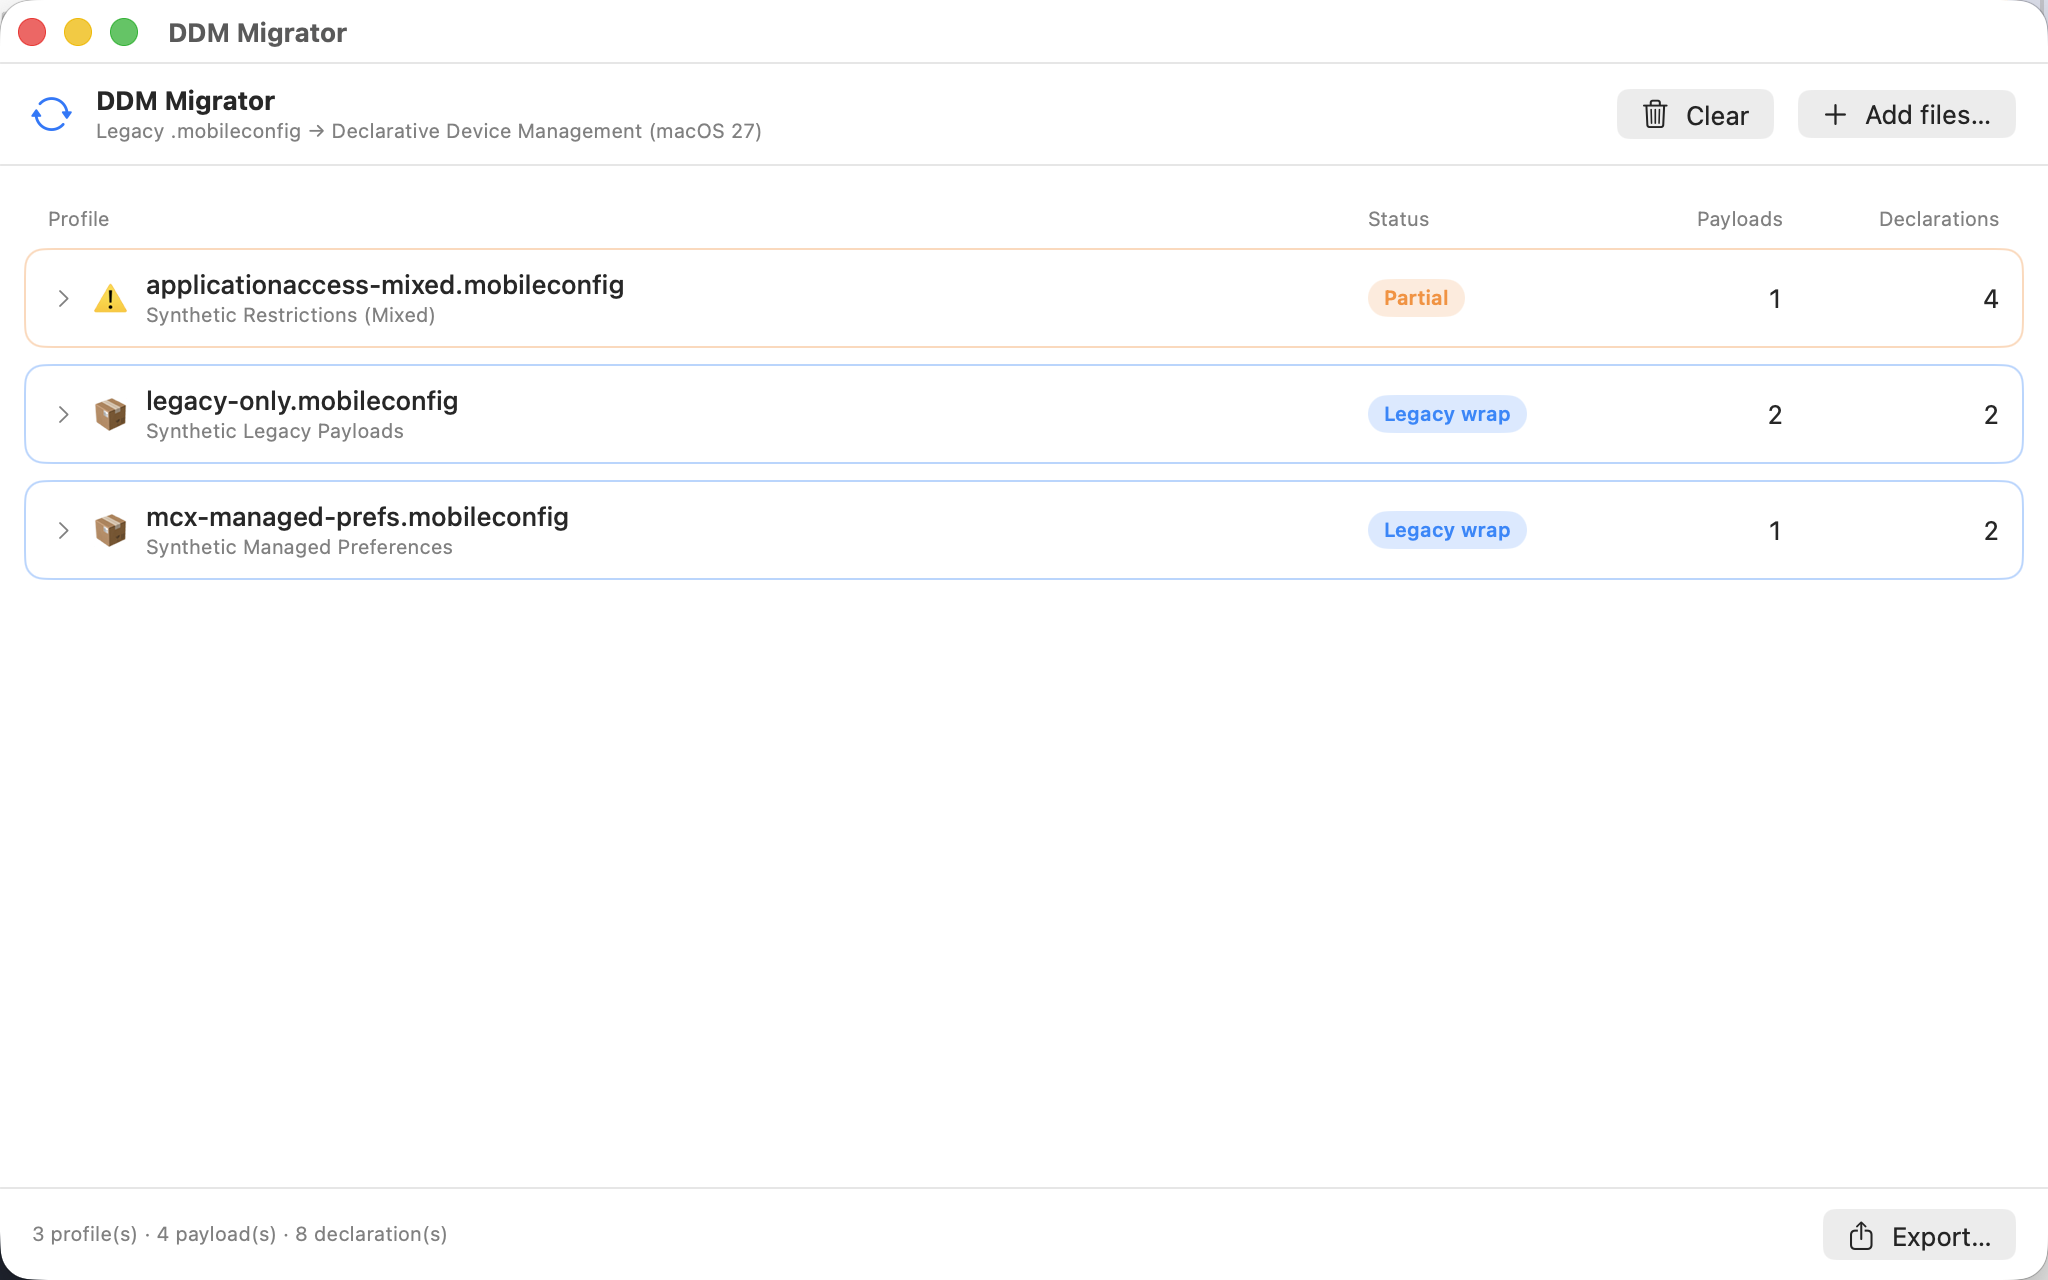
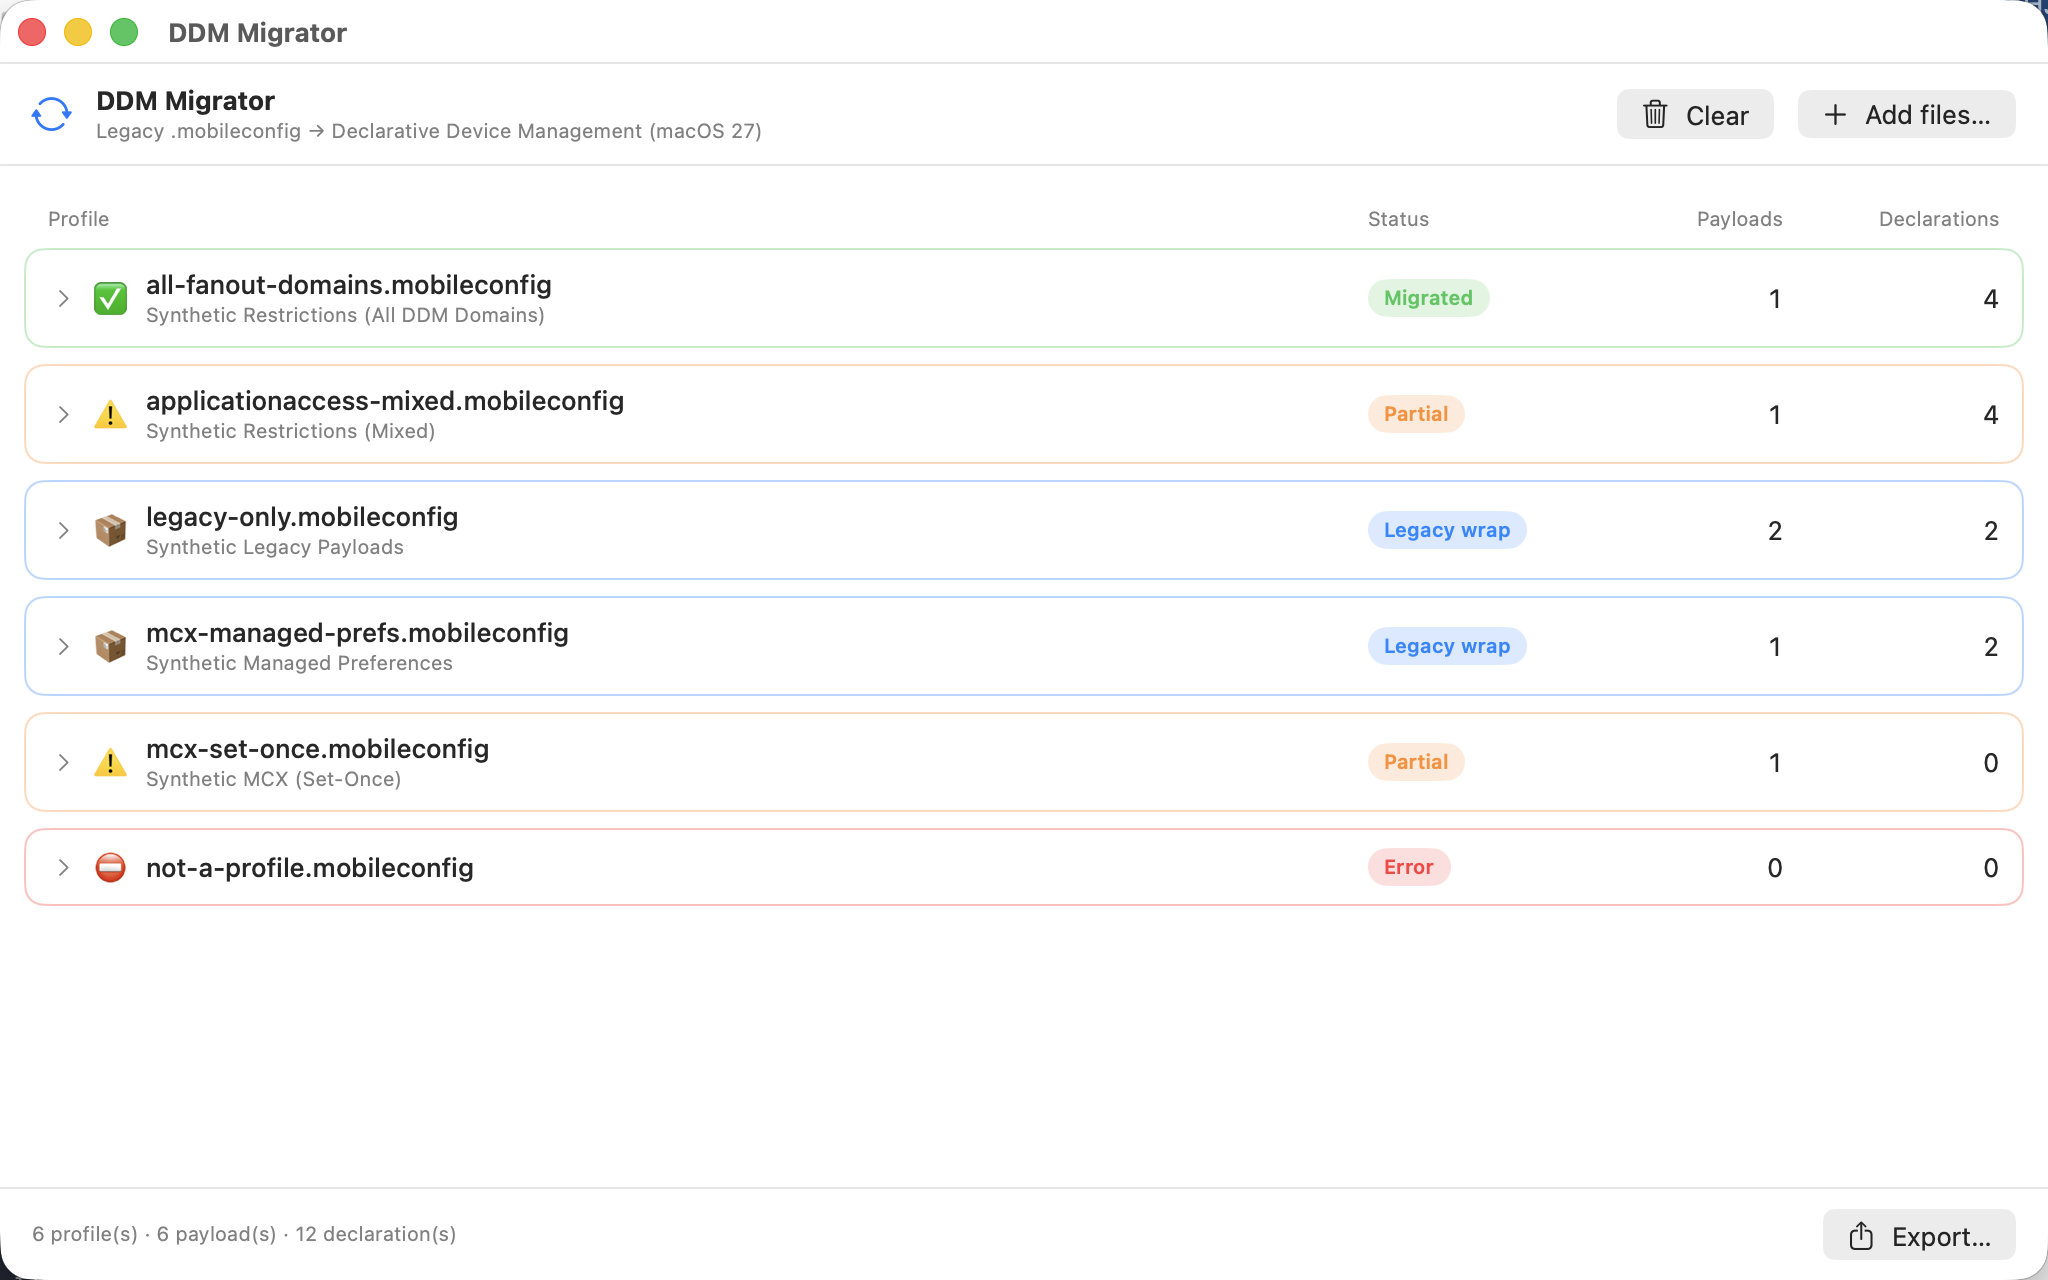
feat: vendor-agnostic deployment + full screenshot/status coverage (#3)
- DeploymentGuide generates DEPLOYMENT.md on export: per-vendor steps for
  FleetDM, Jamf Pro, Kandji/Iru, Addigy, Mosyle, Intune, honest about which
  accept custom DDM JSON today (Fleet + Jamf) vs. policy-only / unsupported.
- OutputWriter also emits a .payload.json companion per declaration (the
  Payload object only) for paste-based MDMs like Jamf Blueprints.
- New fixtures + tests covering all four DDM fan-out domains, MCX Set-Once
  (flagged), and a non-profile (error) — every status type now exercised.
- Demo rows-only expand mode; refreshed README screenshots (all statuses +
  four-domain fan-out) and vendor-agnostic deployment section.

diff --git a/Sources/DDMCore/DeploymentGuide.swift b/Sources/DDMCore/DeploymentGuide.swift
@@ -1,0 +1,69 @@
+import Foundation
+
+/// Generates a vendor-agnostic deployment guide (`DEPLOYMENT.md`) on export.
+///
+/// DDM Migrator's output is standard Apple declaration JSON — Type / Identifier
+/// / Payload — so it isn't tied to any one MDM. But every MDM ingests custom
+/// declarations differently (and some don't yet), so the guide spells out the
+/// workflow per vendor and is honest about current limitations.
+///
+/// Two ingestion shapes matter:
+///   • whole-file  — the vendor takes the full `.ddm.json` (e.g. Fleet).
+///   • paste       — the vendor wants the declaration Type plus the *Payload
+///                   object only*, and generates its own Identifier/ServerToken
+///                   (e.g. Jamf Pro Blueprints → Custom Declarations).
+public enum DeploymentGuide {
+
+    public static func markdown(report: MigrationReport) -> String {
+        let types = Set(report.allPayloads.flatMap { $0.producedDeclarations.map { $0.type } })
+            .sorted()
+
+        var md = "# Deploying these declarations\n\n"
+        md += "_Generated \(report.generatedAtISO8601)_\n\n"
+        md += "DDM Migrator emits **standard Apple declaration JSON** (`Type` / `Identifier` / "
+        md += "`Payload`) in the `*.ddm.json` files. That format is vendor-neutral — how you get it "
+        md += "onto devices depends on your MDM. This guide covers the common ones.\n\n"
+
+        if !types.isEmpty {
+            md += "**Declaration types produced in this export:**\n\n"
+            for t in types { md += "- `\(t)`\n" }
+            md += "\n"
+        }
+
+        md += "## Two shapes you'll need\n\n"
+        md += "- **Whole-file** — some MDMs take the entire `.ddm.json` as-is.\n"
+        md += "- **Paste (Type + Payload)** — some MDMs ask for the declaration *Type* and the "
+        md += "**contents of the `Payload` object only**, and generate the `Identifier`/`ServerToken` "
+        md += "themselves. In that case, open the `.ddm.json` and copy the value of the top-level "
+        md += "`Payload` key (not the whole file).\n\n"
+
+        md += "## Vendor support\n\n"
+        md += "| MDM | Import custom DDM JSON? | How |\n"
+        md += "|---|---|---|\n"
+        md += "| **FleetDM** | ✅ Yes | Whole-file. Upload the `.ddm.json` under **Controls → OS settings**, or commit it to your Fleet **GitOps** repo (`apple_settings.configuration_profiles` accepts `.json` declarations). |\n"
+        md += "| **Jamf Pro** | ✅ Yes (Blueprints) | Paste. **Blueprints → Custom Declarations → Add item**: set **Kind** = Configuration, **Channel** = System (or User), **Type** = the declaration's `Type`, **Payload** = the contents of its `Payload` object (use the `.payload.json` companion file). Jamf generates the Identifier/ServerToken. (API deploy is \"coming soon\" per Jamf.) |\n"
+        md += "| **Kandji (now Iru)** | ⚠️ Not directly | Kandji — rebranded **Iru** in late 2025 — delivers DDM through its own **Library items / policies**; no documented import for arbitrary custom declaration JSON. Use these files as the source of truth and configure the matching settings in Kandji/Iru. |\n"
+        md += "| **Addigy** | ⚠️ Not directly | Addigy delivers DDM through its **policies** (today focused on OS updates); there's no documented import for arbitrary custom declaration JSON yet. Use these files as the source of truth and map the settings into Addigy policies. |\n"
+        md += "| **Mosyle** | ⚠️ Not directly | Like Addigy — DDM is surfaced through Mosyle's policy UI; no documented custom-JSON import. Use these files as reference when configuring policies. |\n"
+        md += "| **Intune** | ❌ Not yet | Intune only exposes specific Microsoft-surfaced declarations (**Settings Catalog → DDM**, mainly software updates). Arbitrary custom DDM JSON cannot be imported today. |\n\n"
+        md += "_For the ⚠️/❌ vendors the declarations are still useful: they're the exact, audited "
+        md += "settings to reproduce in that MDM's UI, and they're ready to import the moment the "
+        md += "vendor adds custom-declaration support._\n\n"
+
+        md += "## Notes\n\n"
+        md += "- **Channel:** these configurations are typically delivered on the **System (device)** "
+        md += "channel; verify per declaration for your environment.\n"
+        md += "- **Identifiers:** the `Identifier` in each file is deterministic (derived from the "
+        md += "source profile) so re-runs diff cleanly. Paste-based MDMs ignore it and assign their own.\n"
+        md += "- **Legacy wraps:** `com.apple.configuration.legacy` references the original profile via "
+        md += "a `ProfileURL` placeholder (`\(LegacyWrap.profileURLPlaceholder)`). Host the original "
+        md += "`.mobileconfig` and replace the placeholder, or simply keep delivering the original "
+        md += "profile alongside your declarations.\n"
+        md += "- **Flagged payloads:** anything marked ⚠️ in `migration-report.md` needs manual review "
+        md += "before deployment — it wasn't auto-converted.\n\n"
+
+        md += "> Scope: DDM Migrator transforms files. It does not push to any MDM or verify that "
+        md += "declarations land on devices — you bring the output into your MDM's own workflow above.\n"
+        return md
+    }
+}

diff --git a/Tests/DDMCoreTests/DDMCoreTests.swift b/Tests/DDMCoreTests/DDMCoreTests.swift
@@ -271,4 +271,38 @@ final class DDMCoreTests: XCTestCase {
         let result = migrator.migrate(data: data, fileName: "applicationaccess-mixed.mobileconfig")
         XCTAssertNil(result.error)
     }
+
+    func testFixtureAllFanOutDomainsProducesFourDomains() throws {
+        guard let data = loadFixture(named: "all-fanout-domains.mobileconfig") else {
+            throw XCTSkip("fixture missing")
+        }
+        let result = migrator.migrate(data: data, fileName: "all-fanout-domains.mobileconfig")
+        let domains = Set(result.payloads.flatMap { $0.targetDomains })
+        XCTAssertEqual(domains, [
+            "com.apple.configuration.intelligence.settings",
+            "com.apple.configuration.external-intelligence.settings",
+            "com.apple.configuration.siri.settings",
+            "com.apple.configuration.keyboard.settings",
+        ])
+        XCTAssertEqual(result.declarationCount, 4)
+        XCTAssertEqual(result.status, .migrated) // no residual legacy
+    }
+
+    func testFixtureMCXSetOnceIsFlagged() throws {
+        guard let data = loadFixture(named: "mcx-set-once.mobileconfig") else {
+            throw XCTSkip("fixture missing")
+        }
+        let result = migrator.migrate(data: data, fileName: "mcx-set-once.mobileconfig")
+        XCTAssertEqual(result.payloads.first?.classification, .flagged)
+        XCTAssertEqual(result.status, .partial)
+    }
+
+    func testFixtureNotAProfileIsError() throws {
+        guard let data = loadFixture(named: "not-a-profile.mobileconfig") else {
+            throw XCTSkip("fixture missing")
+        }
+        let result = migrator.migrate(data: data, fileName: "not-a-profile.mobileconfig")
+        XCTAssertEqual(result.status, .error)
+        XCTAssertNotNil(result.error)
+    }
 }

diff --git a/Sources/DDMCore/OutputWriter.swift b/Sources/DDMCore/OutputWriter.swift
@@ -21,6 +21,7 @@ public enum OutputWriter {
         public let filesWritten: [URL]
         public let reportMarkdownURL: URL
         public let reportJSONURL: URL
+        public let deploymentGuideURL: URL
     }
 
     public enum WriteError: Error, LocalizedError {
@@ -35,7 +36,8 @@ public enum OutputWriter {
     @discardableResult
     public static func write(report: MigrationReport,
                              to outputDirectory: URL,
-                             writePreservedPlists: Bool = true) throws -> WriteSummary {
+                             writePreservedPlists: Bool = true,
+                             writePayloadOnlyFiles: Bool = true) throws -> WriteSummary {
         let fm = FileManager.default
         try ensureDirectory(outputDirectory, fm: fm)
 
@@ -52,6 +54,19 @@ public enum OutputWriter {
                     let fileURL = uniqueURL(in: profileDir, fileName: decl.suggestedFileName(), fm: fm)
                     try decl.jsonData().write(to: fileURL, options: .atomic)
                     written.append(fileURL)
+
+                    // Payload-only companion for paste-based MDMs (e.g. Jamf Pro
+                    // Blueprints, which wants the Payload object, not the envelope).
+                    if writePayloadOnlyFiles {
+                        let payloadURL = fileURL
+                            .deletingPathExtension()        // drop .json
+                            .deletingPathExtension()        // drop .ddm
+                            .appendingPathExtension("payload.json")
+                        if let data = try? decl.payload.prettyPrintedData() {
+                            try? data.write(to: payloadURL, options: .atomic)
+                            written.append(payloadURL)
+                        }
+                    }
 
                     // Companion file preserving the original payload verbatim.
                     if writePreservedPlists, let preserved = p.preservedSource {
@@ -77,10 +92,16 @@ public enum OutputWriter {
         try report.jsonData().write(to: jsonURL, options: .atomic)
         written.append(jsonURL)
 
+        // Vendor-agnostic deployment guide.
+        let deployURL = outputDirectory.appendingPathComponent("DEPLOYMENT.md")
+        try Data(DeploymentGuide.markdown(report: report).utf8).write(to: deployURL, options: .atomic)
+        written.append(deployURL)
+
         return WriteSummary(outputDirectory: outputDirectory,
                             filesWritten: written,
                             reportMarkdownURL: mdURL,
-                            reportJSONURL: jsonURL)
+                            reportJSONURL: jsonURL,
+                            deploymentGuideURL: deployURL)
     }
 
     // MARK: helpers

diff --git a/Sources/DDMMigratorApp/ResultsList.swift b/Sources/DDMMigratorApp/ResultsList.swift
@@ -27,12 +27,15 @@ struct ResultsList: View {
     }
 }
 
-/// Demo flag: when DDM_DEMO_EXPAND=1, rows and JSON start expanded (screenshots).
-private let demoExpand = ProcessInfo.processInfo.environment["DDM_DEMO_EXPAND"] == "1"
+/// Demo flags (screenshots): DDM_DEMO_EXPAND=1 expands rows AND shows JSON;
+/// DDM_DEMO_EXPAND=rows expands rows but leaves JSON collapsed.
+private let demoExpandValue = ProcessInfo.processInfo.environment["DDM_DEMO_EXPAND"] ?? ""
+private let demoExpandRows = demoExpandValue == "1" || demoExpandValue == "rows"
+private let demoShowJSON = demoExpandValue == "1"
 
 private struct ProfileRow: View {
     let profile: ProfileResult
-    @State private var expanded = demoExpand
+    @State private var expanded = demoExpandRows
 
     var body: some View {
         VStack(spacing: 0) {
@@ -98,7 +101,7 @@ private struct StatusBadge: View {
 
 private struct PayloadDetail: View {
     let payload: PayloadResult
-    @State private var showJSON = demoExpand
+    @State private var showJSON = demoShowJSON
 
     var body: some View {
         VStack(alignment: .leading, spacing: 6) {

diff --git a/Tests/DDMCoreTests/ExportIntegrationTests.swift b/Tests/DDMCoreTests/ExportIntegrationTests.swift
@@ -37,6 +37,16 @@ final class ExportIntegrationTests: XCTestCase {
         XCTAssertTrue(FileManager.default.fileExists(atPath: summary.reportJSONURL.path))
         XCTAssertGreaterThan(summary.filesWritten.count, 5)
 
+        // Vendor-agnostic deployment guide is written and covers the vendors.
+        XCTAssertTrue(FileManager.default.fileExists(atPath: summary.deploymentGuideURL.path))
+        let guide = (try? String(contentsOf: summary.deploymentGuideURL, encoding: .utf8)) ?? ""
+        for vendor in ["FleetDM", "Jamf Pro", "Kandji", "Addigy", "Mosyle", "Intune"] {
+            XCTAssertTrue(guide.contains(vendor), "DEPLOYMENT.md missing \(vendor)")
+        }
+
+        // Payload-only companions exist for paste-based MDMs (e.g. Jamf).
+        XCTAssertTrue(summary.filesWritten.contains { $0.lastPathComponent.hasSuffix(".payload.json") })
+
         if ProcessInfo.processInfo.environment["DDM_EXPORT_DIR"] == nil {
             try? FileManager.default.removeItem(at: outDir)
         }

diff --git a/README.md b/README.md
@@ -22,6 +22,10 @@ by payload, exactly what it did and why.
 
 ![Empty state](docs/screenshot-empty.png)
 
+**One `applicationaccess` payload fanning out to all four DDM domains**
+
+![Fan-out to four DDM domains](docs/screenshot-all-domains.png)
+
 **Expanded detail — per-payload disposition with JSON preview**
 
 ![Expanded payload detail with JSON preview](docs/screenshot-expanded.png)
@@ -54,6 +58,10 @@ Drag in one or many `.mobileconfig` files (or a folder) and DDM Migrator:
 - **Writes a migration report** (`migration-report.md` + `.json`) classifying every
   payload as migrated / fanned-out / legacy-wrapped, with reasons and flagged edge
   cases. This is the part that gives you confidence.
+- **Vendor-neutral output + a deployment guide.** Declarations are standard Apple
+  JSON, not tied to any one MDM. Every export includes a `DEPLOYMENT.md` with
+  per-MDM steps (FleetDM, Jamf Pro, Kandji/Iru, Addigy, Mosyle, Intune) and a
+  `.payload.json` companion for paste-based MDMs.
 
 ## Scope boundary (v1)
 
@@ -67,7 +75,28 @@ It does **not**:
 - verify that declarations actually land on devices.
 
 That boundary is deliberate — it's what makes v1 useful and shippable today. You
-take the generated declarations into your own MDM workflow.
+take the generated declarations into your own MDM workflow (see below).
+
+## Deploying to your MDM (vendor-agnostic)
+
+The output is **standard Apple declaration JSON** (`Type` / `Identifier` /
+`Payload`), so it isn't tied to any one MDM. How you get it onto devices depends
+on the vendor — and not every MDM lets you import a custom declaration yet. Every
+export drops a `DEPLOYMENT.md` with step-by-step instructions; here's the summary:
+
+| MDM | Import custom DDM JSON? | How |
+|---|---|---|
+| **FleetDM** | ✅ Yes | Upload the `.ddm.json` under **Controls → OS settings**, or commit it to Fleet **GitOps** (`apple_settings.configuration_profiles` takes `.json` declarations). |
+| **Jamf Pro** | ✅ Yes (Blueprints) | **Blueprints → Custom Declarations → Add item**: set Kind = Configuration, Channel, **Type**, and **Payload** (use the `.payload.json` companion — Jamf wants the Payload object, not the whole envelope, and generates the Identifier itself). API deploy is "coming soon" per Jamf. |
+| **Kandji (now Iru)** | ⚠️ Not directly | DDM is delivered via Kandji/Iru's own Library items; no documented custom-JSON import. Use the files as the audited source of truth. |
+| **Addigy** | ⚠️ Not directly | DDM via Addigy policies (today mostly OS updates); no custom-JSON import yet. |
+| **Mosyle** | ⚠️ Not directly | DDM via Mosyle's policy UI; no custom-JSON import. |
+| **Intune** | ❌ Not yet | Only Microsoft-surfaced declarations (Settings Catalog → DDM, mainly software updates); no arbitrary custom DDM JSON. |
+
+For the ⚠️/❌ vendors the declarations are still valuable: they're the exact,
+audited settings to reproduce in that MDM's UI, and they're ready to import the
+moment the vendor adds custom-declaration support. Today, **FleetDM and Jamf Pro**
+are the two that accept your own declaration JSON directly.
 
 ## Requirements
 

diff --git a/fixtures/README.md b/fixtures/README.md
@@ -9,11 +9,14 @@ public repository and its history is permanent.
 
 ## What's here
 
-| File | Exercises |
-|---|---|
-| `applicationaccess-mixed.mobileconfig` | The `com.apple.applicationaccess` fan-out (stage 2d): Intelligence + Siri + keyboard keys plus plain restriction keys that fall through to a legacy residual. |
-| `mcx-managed-prefs.mobileconfig` | MCX unwrapping (stage 2c): two preference domains under `Forced[0].mcx_preference_settings`. |
-| `legacy-only.mobileconfig` | The legacy-wrap path (stage 2e): payloads with no declarative equivalent. |
+| File | Exercises | Resulting status |
+|---|---|---|
+| `applicationaccess-mixed.mobileconfig` | The `com.apple.applicationaccess` fan-out (stage 2d): Intelligence + Siri + keyboard keys plus plain restriction keys that fall through to a legacy residual. | ⚠️ partial |
+| `all-fanout-domains.mobileconfig` | Fan-out covering **all four** DDM domains (intelligence, external-intelligence, siri, keyboard) with no residual — a clean migration. | ✅ migrated |
+| `mcx-managed-prefs.mobileconfig` | MCX unwrapping (stage 2c): two preference domains under `Forced[0].mcx_preference_settings`. | 📦 legacy wrap |
+| `mcx-set-once.mobileconfig` | MCX using `Set-Once` instead of `Forced` — not auto-migrated, so it's flagged for review. | ⚠️ partial |
+| `legacy-only.mobileconfig` | The legacy-wrap path (stage 2e): payloads with no declarative equivalent. | 📦 legacy wrap |
+| `not-a-profile.mobileconfig` | A non-plist file — exercises per-file error handling (never a crash). | ⛔️ error |
 
 ## Adding a fixture
 